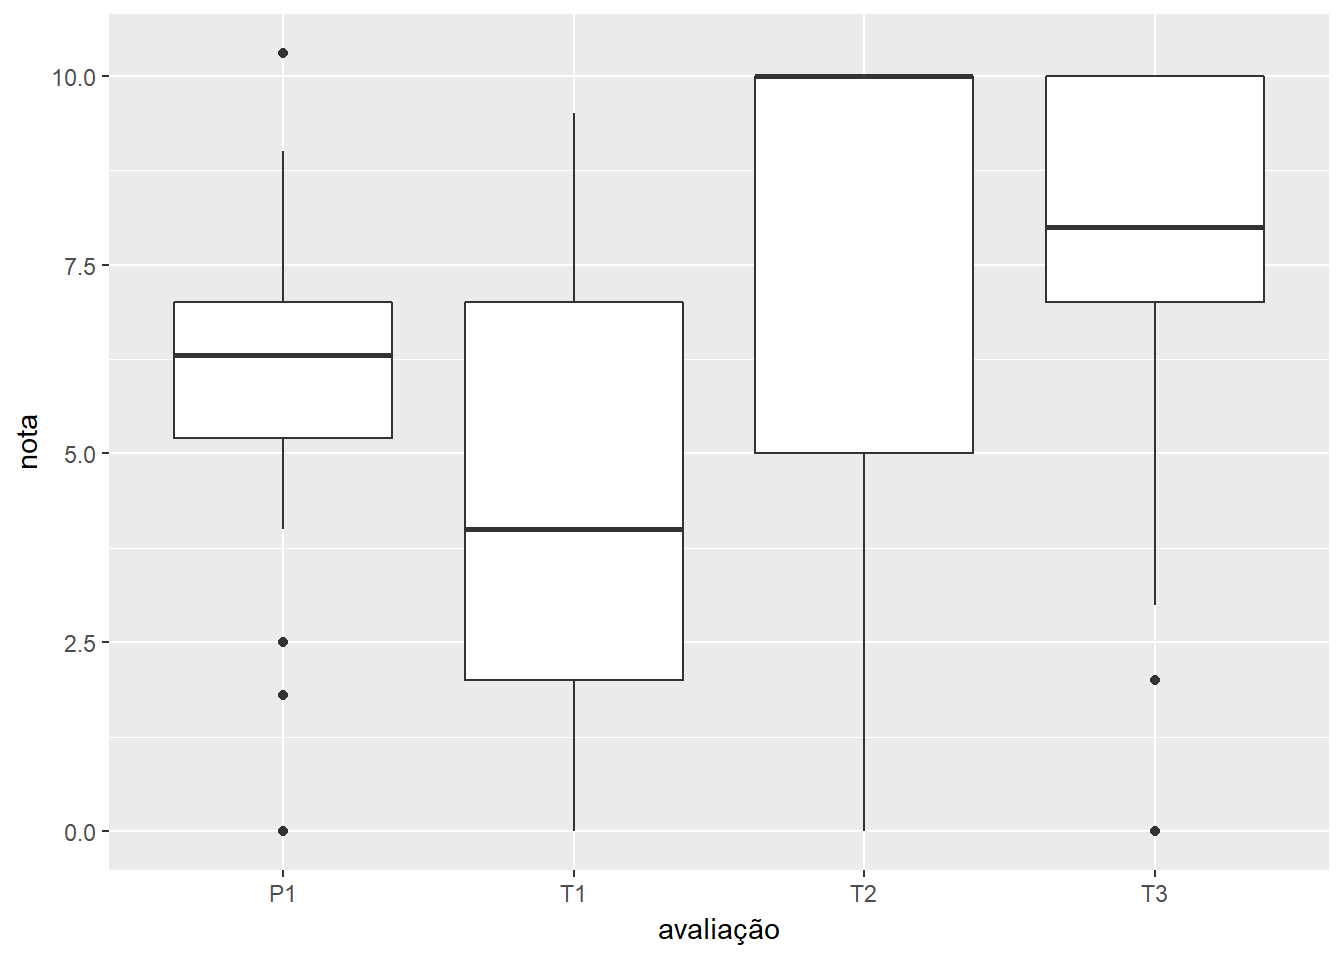
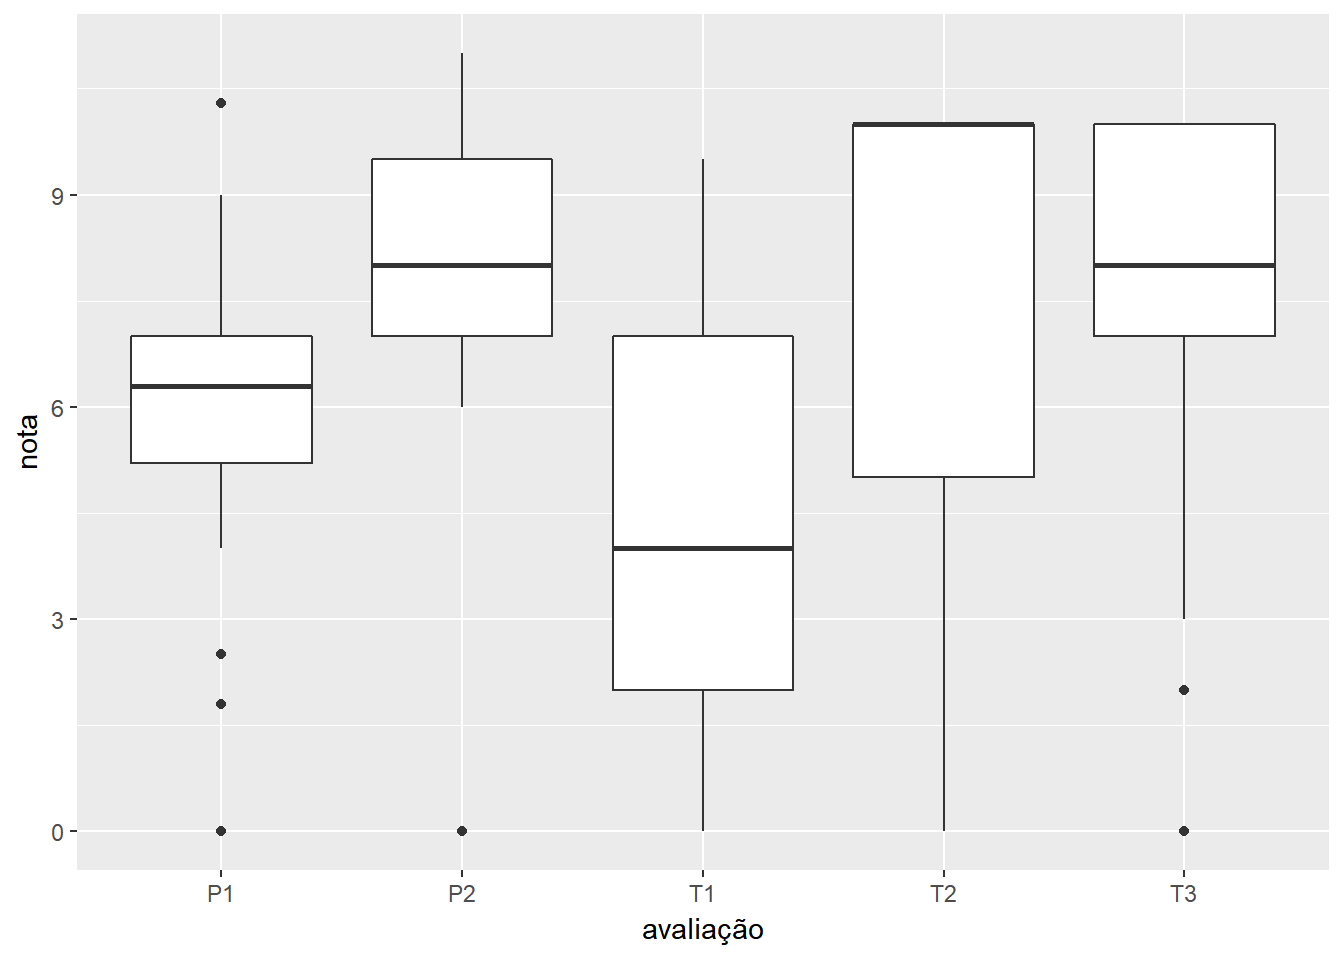
blergh

diff --git a/content/classes/2018_1_prob_c/grades.html b/content/classes/2018_1_prob_c/grades.html
@@ -21,10 +21,9 @@ subtitle: "1o semestre de 2018"
 <li><p>Caso o seu número RA esteja marcado com um (*), isto indica que existe evidência que você desrespeitou o código de ética desta disciplina. Tome cuidado! Caso o seu número RA esteja marcado com um (**), está provado que você desrespeitou o código de ética desta disciplina e você está reprovado.</p></li>
 </ul>
 <div id="htmlwidget-1" style="width:100%;height:auto;" class="datatables html-widget"></div>
-<script type="application/json" data-for="htmlwidget-1">{"x":{"filter":"none","data":[["1922","1930","1965","1990","2023","2139","4440","4845","4848","4849","4852","4854","4870","4873","4877","4879","5944","5947","6800","6851","7835*","7837","7839","7843","7846","7847","7849*","7859","7860","7867","7869","7870","7871","7872","8072","8542","9081"],[4,2,0,4,5,2,1,0,5,7,7,9.5,4,7,7,7,2,7,4,7,0,5.5,4,4,0,9,4,2,9.5,5,0,4,2,1,5,5,7],[9,10,0,10,5,0,10,5,10,10,10,10,2,10,10,10,10,10,10,10,10,10,10,10,10,9,10,0,0,10,7.5,9,10,4,0,0,10],[6.3,6.3,5,6.5,2.5,6.5,4,7.5,7.3,5,7.5,7.5,9,7,7,10.3,7.5,7.3,0,6.8,4.8,6,7.5,5.5,5,4.5,6.5,1.8,6.5,6.3,6.8,6.3,6,5.2,5.3,6,5.5],[8,10,2,9,10,10,8,10,9,7,3,10,4,9.5,8,10,8,2,0,10,9,10,4,9,8,0,0,0,7,8,10,8,8,10,10,10,8]],"container":"<table class=\"display\">\n  <thead>\n    <tr>\n      <th>RA<\/th>\n      <th>T1<\/th>\n      <th>T2<\/th>\n      <th>P1<\/th>\n      <th>T3<\/th>\n    <\/tr>\n  <\/thead>\n<\/table>","options":{"dom":"ftip","columnDefs":[{"className":"dt-right","targets":[1,2,3,4]}],"order":[],"autoWidth":false,"orderClasses":false}},"evals":[],"jsHooks":[]}</script>
+<script type="application/json" data-for="htmlwidget-1">{"x":{"filter":"none","data":[["1922","1930","1965","1990","2023","2139","4440","4845","4848","4849","4852","4854","4870","4873","4877","4879","5944","5947","6800","6851","7835*","7837","7839","7843","7846*","7847","7849*","7859","7860","7867","7869","7870","7871","7872","8072","8542","9081"],[4,2,0,4,5,2,1,0,5,7,7,9.5,4,7,7,7,2,7,4,7,0,5.5,4,4,0,9,4,2,9.5,5,0,4,2,1,5,5,7],[9,10,0,10,5,0,10,5,10,10,10,10,2,10,10,10,10,10,10,10,10,10,10,10,10,9,10,0,0,10,7.5,9,10,4,0,0,10],[6.3,6.3,5,6.5,2.5,6.5,4,7.5,7.3,5,7.5,7.5,9,7,7,10.3,7.5,7.3,0,6.8,4.8,6,7.5,5.5,5,4.5,6.5,1.8,6.5,6.3,6.8,6.3,6,5.2,5.3,6,5.5],[8,10,2,9,10,10,8,10,9,7,3,10,4,9.5,8,10,8,2,0,10,9,10,4,9,8,0,0,0,7,8,10,8,8,10,10,10,8],[9,9.5,8,7,8,6,9.5,7.5,9.5,9,8,10.5,7.5,8.5,10,10.3,8.5,11,0,10,7,7,7.3,6,7.5,8,10,0,10.5,10,7.3,0,6.5,8.3,6.5,9.5,9]],"container":"<table class=\"display\">\n  <thead>\n    <tr>\n      <th>RA<\/th>\n      <th>T1<\/th>\n      <th>T2<\/th>\n      <th>P1<\/th>\n      <th>T3<\/th>\n      <th>P2<\/th>\n    <\/tr>\n  <\/thead>\n<\/table>","options":{"dom":"ftip","columnDefs":[{"className":"dt-right","targets":[1,2,3,4,5]}],"order":[],"autoWidth":false,"orderClasses":false}},"evals":[],"jsHooks":[]}</script>
 <div id="graficos" class="section level3">
 <h3>Gráficos</h3>
 <p><img src="/classes/2018_1_prob_c/grades_files/figure-html/unnamed-chunk-2-1.png" width="672" /></p>
-<p>1</p>
 </div>
 </div>
